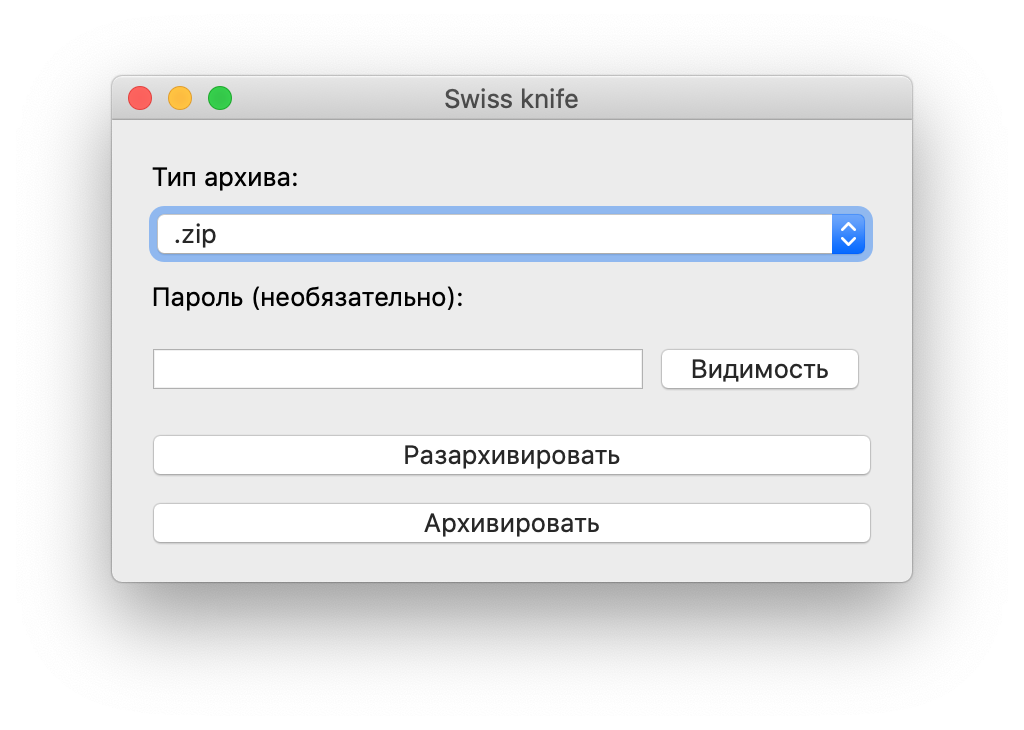
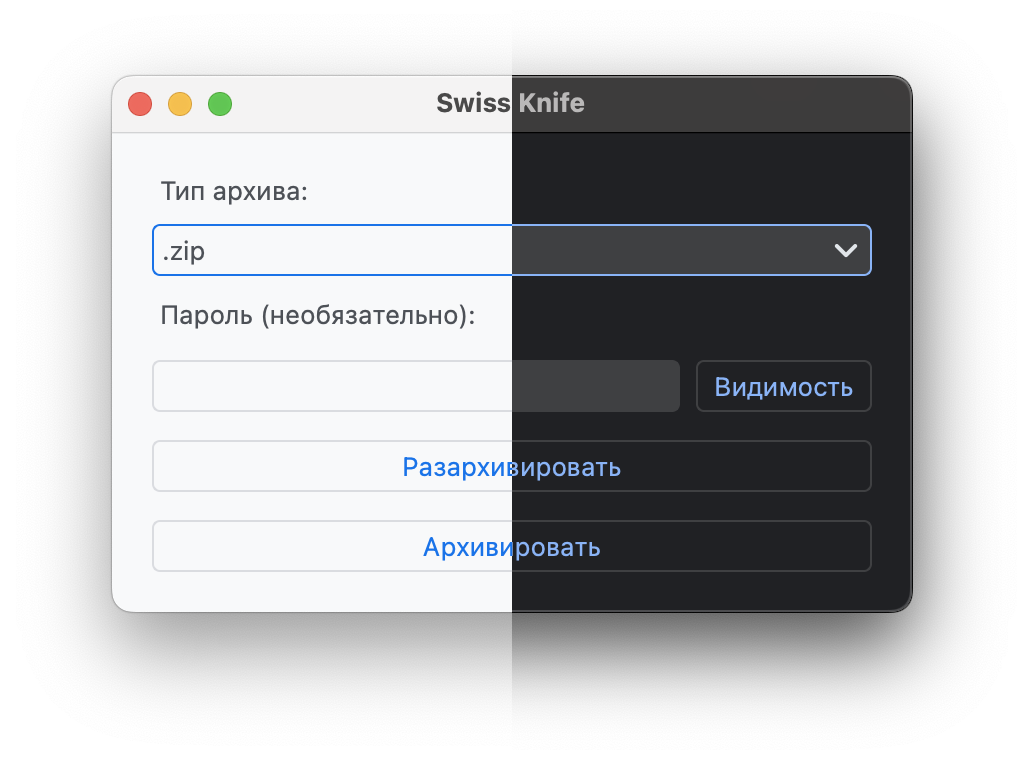
добавлен модуль для подготовки скриншотов

diff --git a/media/split_and_union.py b/media/split_and_union.py
@@ -1,0 +1,92 @@
+import os
+from pathlib import Path
+import sys
+from PIL import Image
+
+current_dir = Path(os.getcwd())
+sys.path.append(str(current_dir.joinpath("utils")))
+sys.path.append(str(current_dir))
+
+
+from utils.platform_settings import Platform
+
+class ImageProcessor:
+    def __init__(self):
+        if Platform.OS == Platform.macOS:
+            self.img = 'media/screenshots/screenshot_mac.png'
+            self.light_img = 'media/screenshots/screenshot_mac_light.png'
+            self.dark_img = 'media/screenshots/screenshot_mac_dark.png'
+
+    def add_suffix_to_filename(self, file_path: str, suffix: str) -> str:
+        # Разделите имя файла на путь, имя и расширение
+        dir_path = os.path.dirname(file_path)
+        filename = os.path.basename(file_path)
+
+        # Разделите имя файла на основную часть и расширение
+        name, ext = os.path.splitext(filename)
+
+        # Добавьте суффикс к имени файла
+        new_name = f"{name}_{suffix}{ext}"
+
+        # Объедините новый путь с новым именем файла
+        new_file_path = os.path.join(dir_path, new_name)
+
+        return new_file_path
+
+    def split(self, image_path: str):
+        # Загрузите изображение
+        img = Image.open(image_path)
+        # Получите размеры исходного изображения
+        width, height = img.size
+        # Рассчитайте середину высоты для разрезания
+        mid_width = width // 2
+        # Обрежьте левую и правую части
+        left_half = img.crop((0, 0, mid_width, height))
+        right_half = img.crop((mid_width, 0, width, height))
+
+        name_left = self.add_suffix_to_filename(image_path, "left")
+        name_right = self.add_suffix_to_filename(image_path, "right")
+        # Сохраните каждую часть как отдельное изображение
+        left_half.save(name_left)
+        right_half.save(name_right)
+        return (name_left, name_right)
+
+    def union(self, image_left: str, image_right: str):
+        # Загрузите изображения
+        img1 = Image.open(image_left)
+        img2 = Image.open(image_right)
+
+        # Объедините изображения по горизонтали
+        combined_img = Image.new(img1.mode, (img1.width + img2.width, img1.height))
+        combined_img.paste(img1, (0, 0))
+        combined_img.paste(img2, (img1.width, 0))
+
+        # Сохраните объединенное изображение
+        combined_img.save(self.img)
+
+        self.delete_cache()
+
+    def delete_cache(self):
+        files_to_delete = [
+            self.add_suffix_to_filename(image_processor.light_img, "left"),
+            self.add_suffix_to_filename(image_processor.light_img, "right"),
+            self.add_suffix_to_filename(image_processor.dark_img, "left"),
+            self.add_suffix_to_filename(image_processor.dark_img, "right"),
+        ]
+
+        for file_path in files_to_delete:
+            try:
+                os.remove(file_path)
+                print(f"Файл {file_path} успешно удален.")
+            except FileNotFoundError:
+                print(f"Файл {file_path} не найден.")
+            except PermissionError:
+                print(f"Нет разрешения на удаление файла {file_path}.")
+            except Exception as e:
+                print(f"Произошла ошибка при удалении файла {file_path}: {e}")
+
+image_processor = ImageProcessor()
+img_light = image_processor.split(image_processor.light_img)
+img_dark =  image_processor.split(image_processor.dark_img)
+
+image_processor.union(img_light[0], img_dark[1])

diff --git a/config/icons_settings.py b/config/icons_settings.py
@@ -6,7 +6,7 @@ from pathlib import Path
 from PIL import Image
 
 current_dir = Path(os.getcwd())
-sys.path.append(str(current_dir.joinpath("packages")))
+sys.path.append(str(current_dir.joinpath("utils")))
 sys.path.append(str(current_dir))
 
 from config.swiss_knife_config import SwissKnifeConfig
